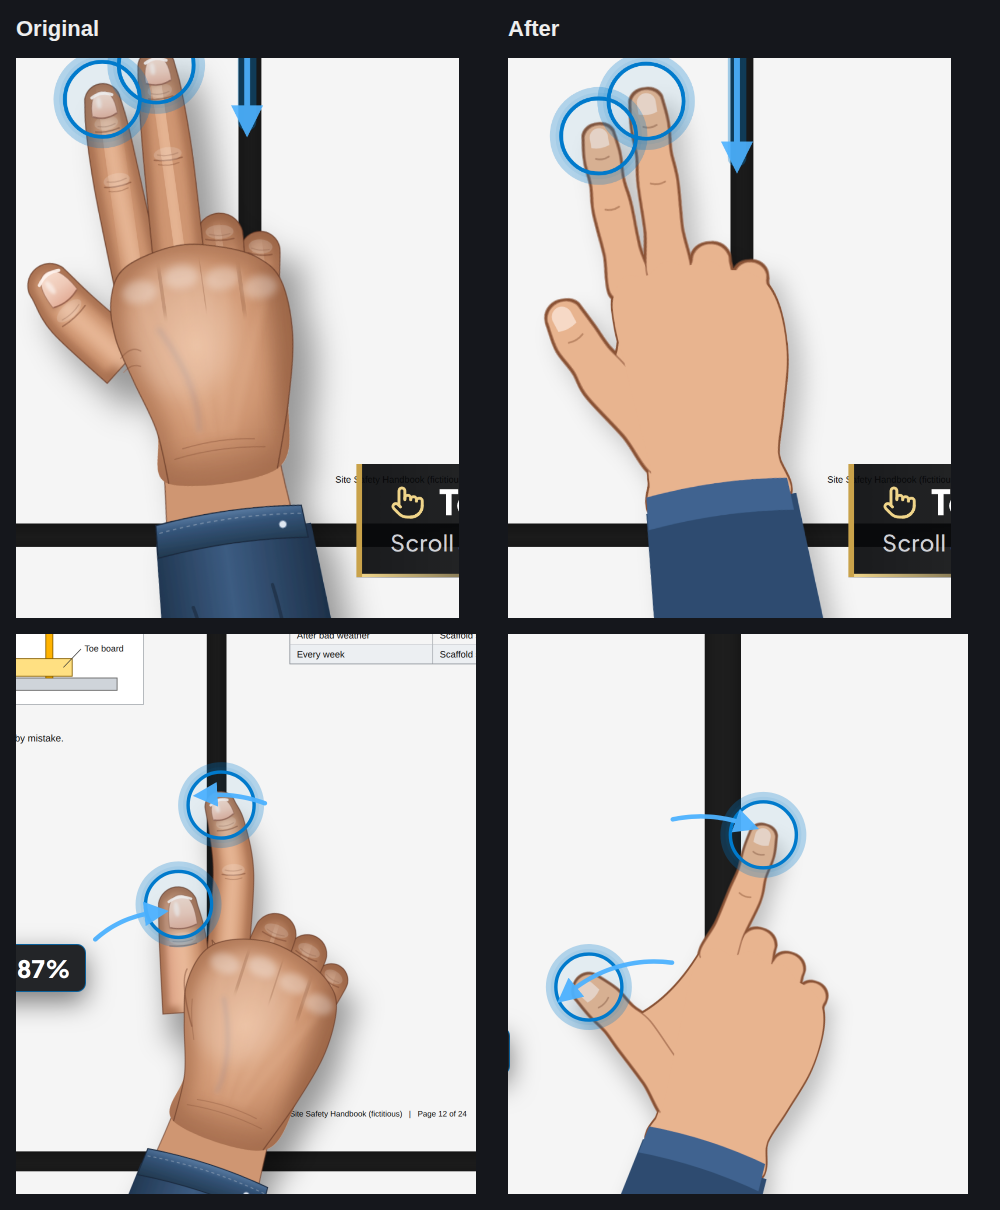
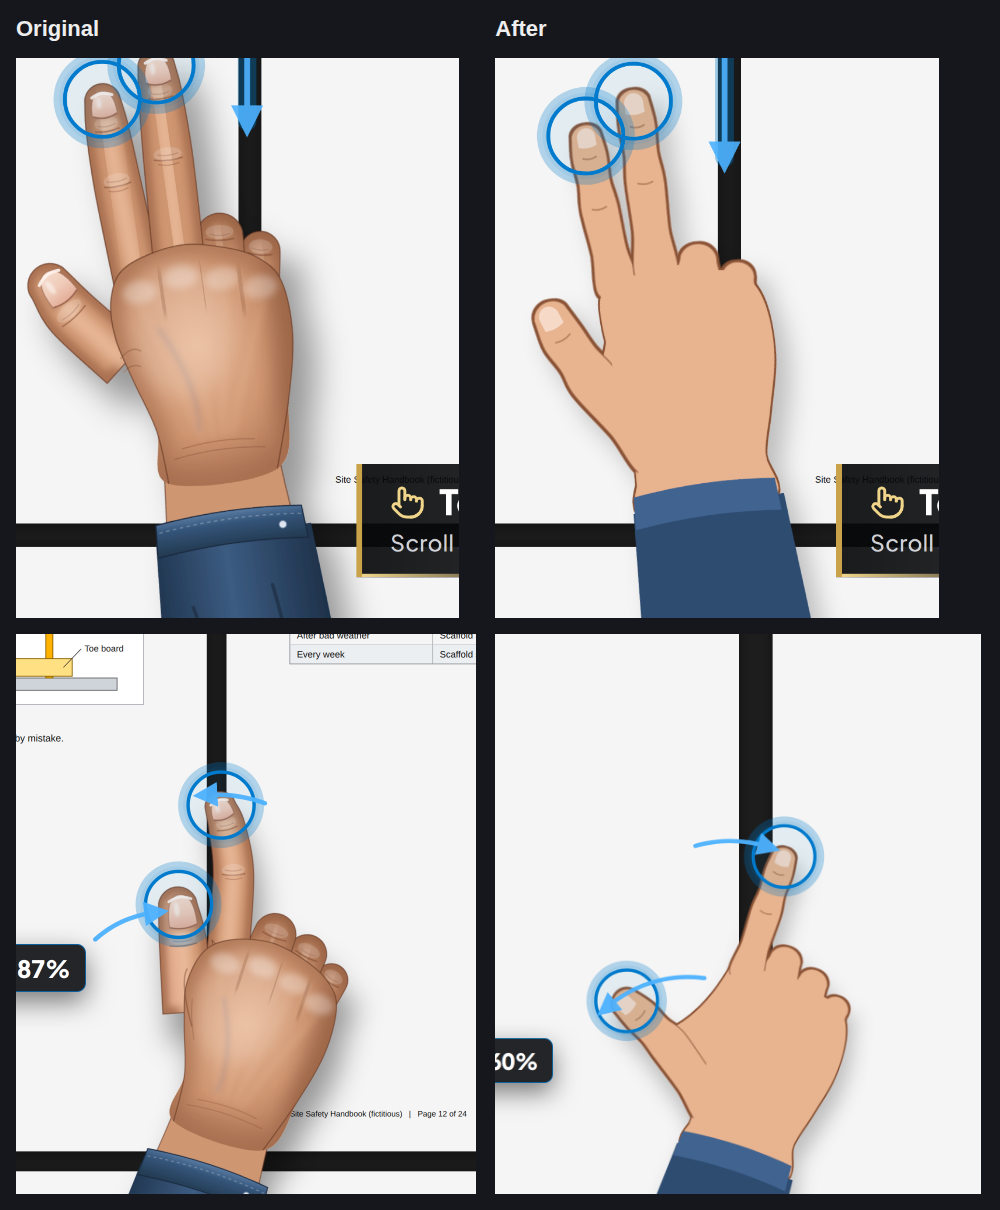
Keep the index finger straight during the pinch
The index no longer bends at its joints; the whole finger rotates from
the knuckle instead. The fingertip spread ratio (which drives the zoom)
stays at about 1.83, as before.

Claude-Session: https://claude.ai/code/session_01EtiQXiwfkxJroCBURUY9KN

diff --git a/SAVEstimate-Part-4-Reading-and-Review.html b/SAVEstimate-Part-4-Reading-and-Review.html
@@ -4123,8 +4123,8 @@ function mkPinchHand(host) {
     tips: null,
     /** s in [0, 1]: 0 = starting spread, 1 = open. Returns the two touch points (index, thumb) in local coordinates. */
     pose(s) {
-      const aI = lerp(-24, 6, s);
-      const ia = limbAxis([-48, -154], aI, [74, 44, 30], [lerp(-10, -6, s), lerp(-8, -4, s)]);
+      const aI = lerp(-34, 0, s);
+      const ia = limbAxis([-48, -154], aI, [74, 44, 30], [0, 0]);
       const ti = index.pose(ia, [33, 30, 28, 26]);
       const tt = thumb.pose(lerp(-26, -54, s), lerp(-4, -62, s), lerp(6, -66, s), ia);
       api.tips = [[ti.cap[0], ti.cap[1] - 2], [tt.cap[0], tt.cap[1] - 2]];
